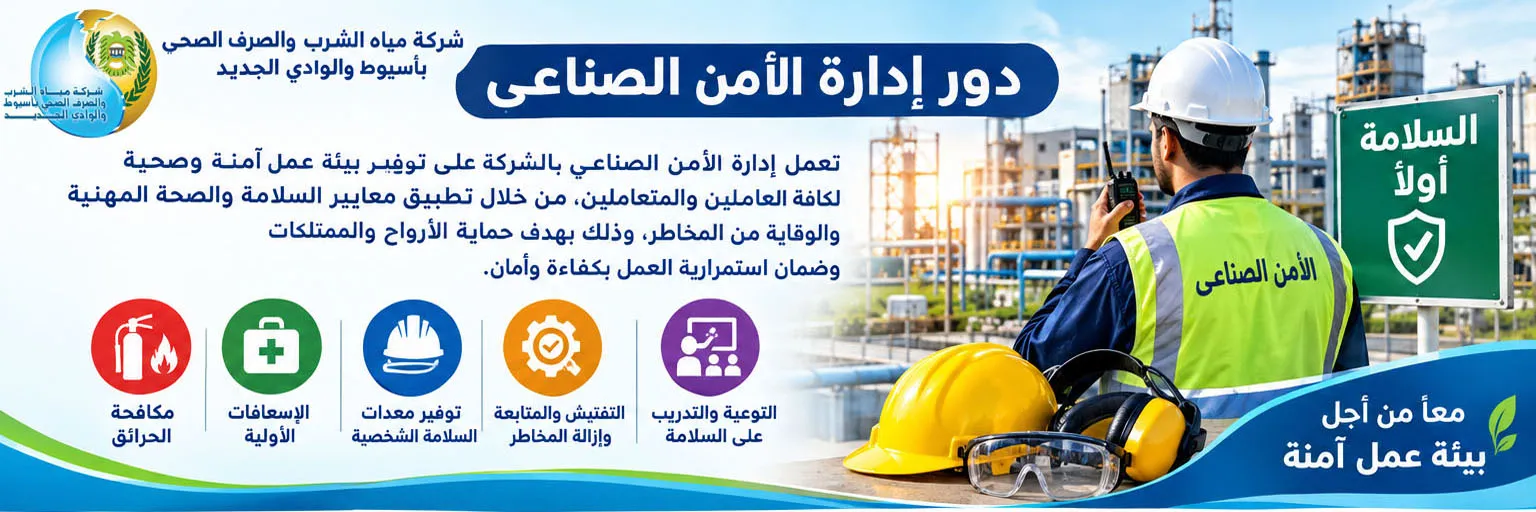
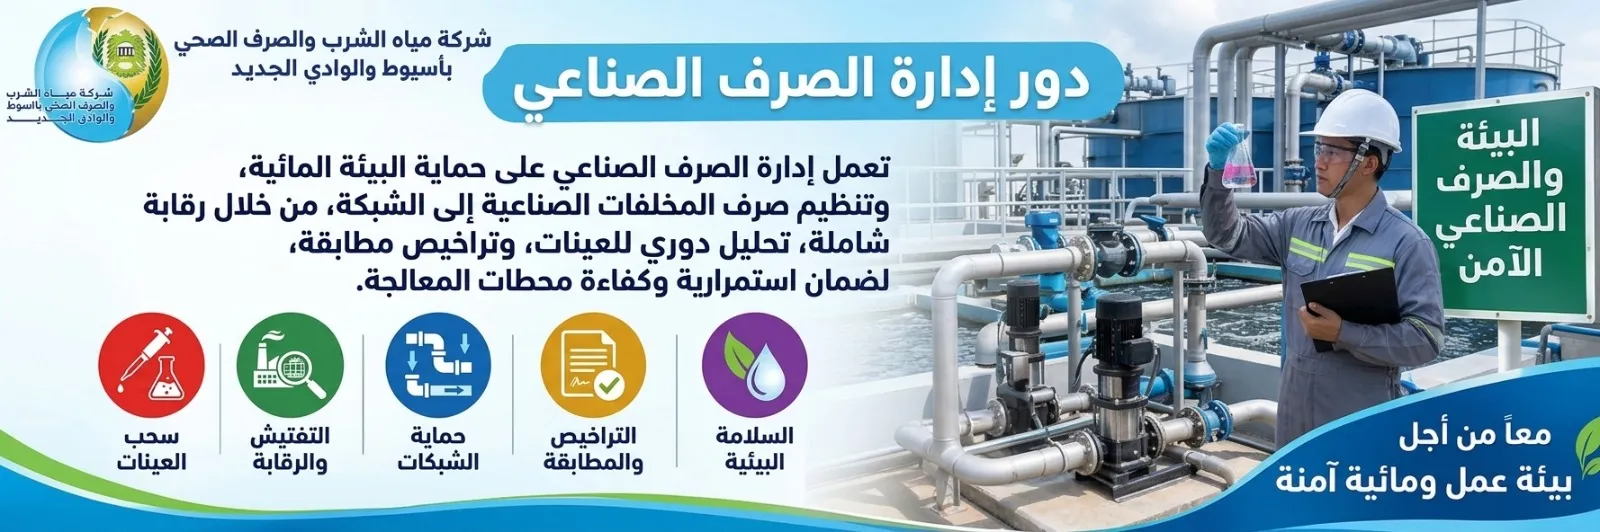
add Digital Water Services

diff --git a/src/components/MainContent.tsx b/src/components/MainContent.tsx
@@ -10,6 +10,32 @@ function MainContent() {
     const isEnglish = language === 'en';
     const t = (arabic: string, english: string) => (isEnglish ? english : arabic);
     const serviceImage = (arabicSrc: string, englishSrc: string) => (isEnglish ? englishSrc : arabicSrc);
+    const digitalServices = [
+        {
+            image: '/images/services/1.webp',
+            englishImage: '/images/services/1E.webp',
+            title: t('المنصة الرقمية لخدمات مياه الشرب والصرف الصحي', 'Digital Platform for Drinking Water and Sanitation Services'),
+            url: 'https://dsp.hcww.com.eg/',
+        },
+        {
+            image: '/images/services/2.webp',
+            englishImage: '/images/services/2E.webp',
+            title: t('الاستعلام عن الفاتورة', 'Inquire About Your Bill'),
+            url: 'https://dsp.hcww.com.eg/bills',
+        },
+        {
+            image: '/images/services/3.webp',
+            englishImage: '/images/services/3E.webp',
+            title: t('سداد الفاتورة', 'Pay Your Bill'),
+            url: 'https://dsp.hcww.com.eg/bills',
+        },
+        {
+            image: '/images/services/4.webp',
+            englishImage: '/images/services/4E.webp',
+            title: t('تسجيل قراءة العداد', 'Register Your Meter Reading'),
+            url: 'https://dsp.hcww.com.eg/reading',
+        },
+    ];
     const laboratoryServices = [
         {
             image: '/images/services/laboratories-sector/1.webp',
@@ -20,7 +46,7 @@ function MainContent() {
         {
             image: '/images/services/laboratories-sector/2.webp',
             englishImage: '/images/services/laboratories-sector/2E.webp',
-            title: t('فحص عينات الرمل والزلط', 'Sand and Gravel Sample Testing'),
+            title: t('فحص عينات وسط ترشيحي', 'Filter Media Sample Testing'),
             targetId: 'sand-gravel-sample-service',
         },
         {
@@ -51,45 +77,28 @@ function MainContent() {
                     <div className="mb-10 text-center animate-on-scroll sm:mb-16">
                         <h2 className="text-2xl font-extrabold text-slate-900 sm:text-3xl lg:text-4xl">{t('خدماتنا الإلكترونية', 'Our E-Services')}</h2>
                     </div>
-                    <div className="grid gap-6 sm:grid-cols-2 lg:grid-cols-5">
-                        <div className="animate-on-scroll h-full" data-delay="50">
-                            <a href="http://bills.ascww.com.eg/Inqeury.aspx" target="_blank" rel="noopener noreferrer" className="group relative flex h-full flex-col overflow-hidden rounded-2xl bg-white shadow-lg ring-1 ring-slate-900/5 transition-shadow duration-300 hover:shadow-2xl hover:ring-[#0a3555]/20">
-                                <div className="flex h-full flex-col transition-transform duration-300 group-hover:-translate-y-2">
-                                    <div className="aspect-[4/3] w-full overflow-hidden bg-slate-100">
-                                        <img
-                                            src={serviceImage('/images/services/inquire-bill.webp', '/images/services/inquire-billEN.webp')}
-                                            alt={t('استعلم عن فاتورتك', 'Check your bill')}
-                                            className="h-full w-full object-cover transition-transform duration-500 group-hover:scale-110"
-                                            loading="lazy"
-                                            decoding="async"
-                                            onError={(e) => { (e.target as HTMLImageElement).style.display = 'none'; }}
-                                        />
+                    <div className="grid gap-6 sm:grid-cols-2 lg:grid-cols-4">
+                        {digitalServices.map((service, index) => (
+                            <div key={service.image} className="animate-on-scroll h-full" data-delay={50 + index * 50}>
+                                <a href={service.url} target="_blank" rel="noopener noreferrer" className="group relative flex h-full flex-col overflow-hidden rounded-2xl bg-white shadow-lg ring-1 ring-slate-900/5 transition-shadow duration-300 hover:shadow-2xl hover:ring-[#0a3555]/20">
+                                    <div className="flex h-full flex-col transition-transform duration-300 group-hover:-translate-y-2">
+                                        <div className="aspect-[4/3] w-full overflow-hidden bg-slate-100">
+                                            <img
+                                                src={serviceImage(service.image, service.englishImage)}
+                                                alt={service.title}
+                                                className="h-full w-full object-cover transition-transform duration-500 group-hover:scale-110"
+                                                loading="lazy"
+                                                decoding="async"
+                                                onError={(e) => { (e.target as HTMLImageElement).style.display = 'none'; }}
+                                            />
+                                        </div>
+                                        <div className="flex flex-1 items-center justify-center border-t border-slate-100 bg-white p-4 text-center">
+                                            <h3 className="text-lg font-bold text-slate-800 transition-colors group-hover:text-[#0a3555] sm:text-xl">{service.title}</h3>
+                                        </div>
                                     </div>
-                                    <div className="flex flex-1 items-center justify-center border-t border-slate-100 bg-white p-4 text-center">
-                                        <h3 className="text-lg font-bold text-slate-800 transition-colors group-hover:text-[#0a3555] sm:text-xl">{t('استعلم عن فاتورتك', 'Check your bill')}</h3>
-                                    </div>
-                                </div>
-                            </a>
-                        </div>
-                        <div className="animate-on-scroll h-full" data-delay="100">
-                            <Link to={ROUTES.myReadingApp} className="group relative flex h-full flex-col overflow-hidden rounded-2xl bg-white shadow-lg ring-1 ring-slate-900/5 transition-shadow duration-300 hover:shadow-2xl hover:ring-[#0a3555]/20">
-                                <div className="flex h-full flex-col transition-transform duration-300 group-hover:-translate-y-2">
-                                    <div className="aspect-[4/3] w-full overflow-hidden bg-slate-100">
-                                        <img
-                                            src={serviceImage('/images/services/enter-reading.webp', '/images/services/enter-readingEN.webp')}
-                                            alt={t('أدخل قراءة عدادك', 'Enter your meter reading')}
-                                            className="h-full w-full object-cover transition-transform duration-500 group-hover:scale-110"
-                                            loading="lazy"
-                                            decoding="async"
-                                            onError={(e) => { (e.target as HTMLImageElement).style.display = 'none'; }}
-                                        />
-                                    </div>
-                                    <div className="flex flex-1 items-center justify-center border-t border-slate-100 bg-white p-4 text-center">
-                                        <h3 className="text-lg font-bold text-slate-800 transition-colors group-hover:text-[#0a3555] sm:text-xl">{t('أدخل قراءة عدادك', 'Enter your meter reading')}</h3>
-                                    </div>
-                                </div>
-                            </Link>
-                        </div>
+                                </a>
+                            </div>
+                        ))}
                         <div className="animate-on-scroll h-full" data-delay="150">
                             <Link to={ROUTES.hotlineApp} className="group relative flex h-full flex-col overflow-hidden rounded-2xl bg-white shadow-lg ring-1 ring-slate-900/5 transition-shadow duration-300 hover:shadow-2xl hover:ring-[#0a3555]/20">
                                 <div className="flex h-full flex-col transition-transform duration-300 group-hover:-translate-y-2">

diff --git a/src/components/HeroSlider.tsx b/src/components/HeroSlider.tsx
@@ -90,6 +90,20 @@ function HeroSlider() {
                     data-cta-ar="فتح الخدمة"
                     data-cta-en="Open service"
                 ></div>
+                <div
+                    className="hero-slide"
+                    data-bg="/images/slider/7.webp"
+                    data-title="المنصة الرقمية لخدمة مياه الشرب والصرف الصحي"
+                    data-title-ar="المنصة الرقمية لخدمة مياه الشرب والصرف الصحي"
+                    data-title-en="Digital Platform for Drinking Water and Sanitation Services"
+                    data-subtitle="يمكنك الاستعلام عن قيمة الفاتورة وتسجيل قراءة عداد المياه وسداد الفواتير إلكترونيًا"
+                    data-subtitle-ar="يمكنك الاستعلام عن قيمة الفاتورة وتسجيل قراءة عداد المياه وسداد الفواتير إلكترونيًا"
+                    data-subtitle-en="You can check your bill, submit your water meter reading, and pay bills electronically."
+                    data-link="https://dsp.hcww.com.eg/"
+                    data-cta="زيارة المنصة الرقمية"
+                    data-cta-ar="زيارة المنصة الرقمية"
+                    data-cta-en="Visit the Digital Platform"
+                ></div>
             </div>
             <div className="hero-overlay"></div>
             <button id="hero-prev" type="button" aria-label="السلايد السابق" className="hero-nav-btn hero-nav-btn--left">
@@ -112,6 +126,7 @@ function HeroSlider() {
                 <button type="button" data-hero-dot data-slide-index="3" aria-label="Slide 4" className="hero-dot pointer-events-auto"></button>
                 <button type="button" data-hero-dot data-slide-index="4" aria-label="Slide 5" className="hero-dot pointer-events-auto"></button>
                 <button type="button" data-hero-dot data-slide-index="5" aria-label="Slide 6" className="hero-dot pointer-events-auto"></button>
+                <button type="button" data-hero-dot data-slide-index="6" aria-label="Slide 7" className="hero-dot pointer-events-auto"></button>
             </div>
         </section>
     );

diff --git a/src/pages/LaboratoriesSector.tsx b/src/pages/LaboratoriesSector.tsx
@@ -514,7 +514,7 @@ function LaboratoriesSectorPage() {
           <ContentSection title={t('خطة مراقبة نوعية المياه', 'Water quality monitoring plan')}>
             <div dir={isEnglish ? 'ltr' : 'rtl'} className={isEnglish ? 'text-left' : 'text-right'}>
               <p className={`mb-5 text-base leading-8 text-slate-700 ${isEnglish ? 'text-left' : 'text-right'}`}>
-                {t('طبقًا لقرار وزير الصحة رقم 181 لسنة 2025، تُحلل معامل الشركة العناصر التالية وفق دوريات الفحص المحددة:', 'Under Minister of Health Decree No. 181 of 2025, company laboratories analyze the following parameters at the specified frequencies:')}
+                {t('طبقًا لقرار وزير الصحة رقم 182 لسنة 2025، تُحلل معامل الشركة العناصر التالية وفق دوريات الفحص المحددة:', 'Under Minister of Health Decree No. 182 of 2025, company laboratories analyze the following parameters at the specified frequencies:')}
               </p>
               <div className="overflow-x-auto rounded-lg border border-slate-200">
                 <table className={`min-w-[620px] w-full border-collapse ${isEnglish ? 'text-left' : 'text-right'}`}>

diff --git a/src/pages/LaboratoriesSectorServices.tsx b/src/pages/LaboratoriesSectorServices.tsx
@@ -3,7 +3,7 @@ import Footer from '../components/Footer';
 import Header from '../components/Header';
 import { useSiteLanguage } from '../context/SiteLanguageContext';
 
-const LABORATORY_WHATSAPP_NUMBER = '201005797550';
+const LABORATORY_WHATSAPP_NUMBER = '201280002087';
 const isValidCompanyAddress = (value: string) => /^(?=.*[\p{L}\p{N}])[\p{L}\p{N} ]{1,100}$/u.test(value);
 
 function FormFieldError({ message }: { message?: string }) {
@@ -612,7 +612,7 @@ function LaboratoriesSectorServicesPage() {
       ],
     },
     {
-      title: t('فحص عينات الرمل والزلط', 'Sand and Gravel Sample Testing'),
+      title: t('فحص عينات وسط ترشيحي', 'Filter Media Sample Testing'),
       description: t(
         'استلام عينات الرمل والزلط الخارجية المدفوعة بأجر وفحصها بالمعمل المركزي للشركة.',
         'Receive paid external sand and gravel samples for testing at the Company Central Laboratory.'

diff --git a/src/pages/Home.tsx b/src/pages/Home.tsx
@@ -157,6 +157,14 @@ function HomePage() {
       if (heroCta) {
         if (link) {
           heroCta.href = link;
+          const linkUrl = new URL(link, window.location.origin);
+          if (linkUrl.origin !== window.location.origin) {
+            heroCta.target = '_blank';
+            heroCta.rel = 'noopener noreferrer';
+          } else {
+            heroCta.removeAttribute('target');
+            heroCta.removeAttribute('rel');
+          }
           heroCta.classList.remove('hidden');
         } else {
           heroCta.classList.add('hidden');

diff --git a/src/pages/LaboratoriesSectorCentralLab.tsx b/src/pages/LaboratoriesSectorCentralLab.tsx
@@ -739,6 +739,9 @@ function createLaboratoryEquipmentGallery(
       card.className = 'organic-equipment-gallery-card';
       const imageList = content.ownerDocument.createElement('div');
       imageList.className = 'organic-equipment-gallery-images';
+      if (sourceImages.length % 2 === 1) {
+        imageList.classList.add('organic-equipment-gallery-images--odd');
+      }
       sourceImages.forEach((sourceImage) => {
         const image = sourceImage.cloneNode(true) as HTMLImageElement;
         image.dataset.zoomable = 'true';

diff --git a/src/pages/LaboratoriesSectorCentralLab.css b/src/pages/LaboratoriesSectorCentralLab.css
@@ -202,6 +202,10 @@
   gap: 10px;
 }
 
+.central-lab-document .organic-equipment-gallery-images--odd > :last-child {
+  grid-column: 1 / -1;
+}
+
 .central-lab-document .organic-equipment-gallery-image {
   min-width: 0;
   display: flex;
@@ -239,6 +243,12 @@
   height: auto;
   margin: 12px auto 20px;
   object-fit: contain;
+}
+
+.central-lab-document img {
+  display: block;
+  float: none;
+  margin-inline: auto !important;
 }
 
 .central-lab-document .central-lab-image-pair {
